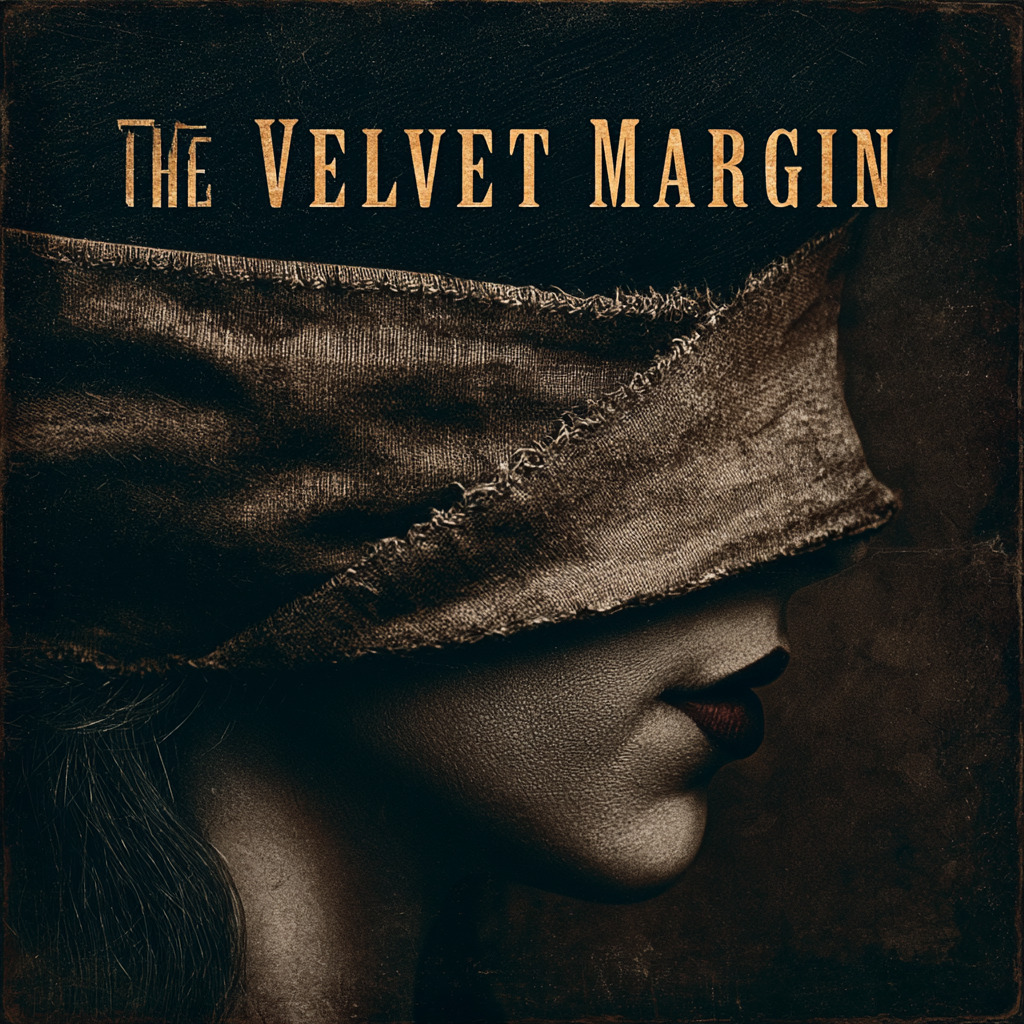
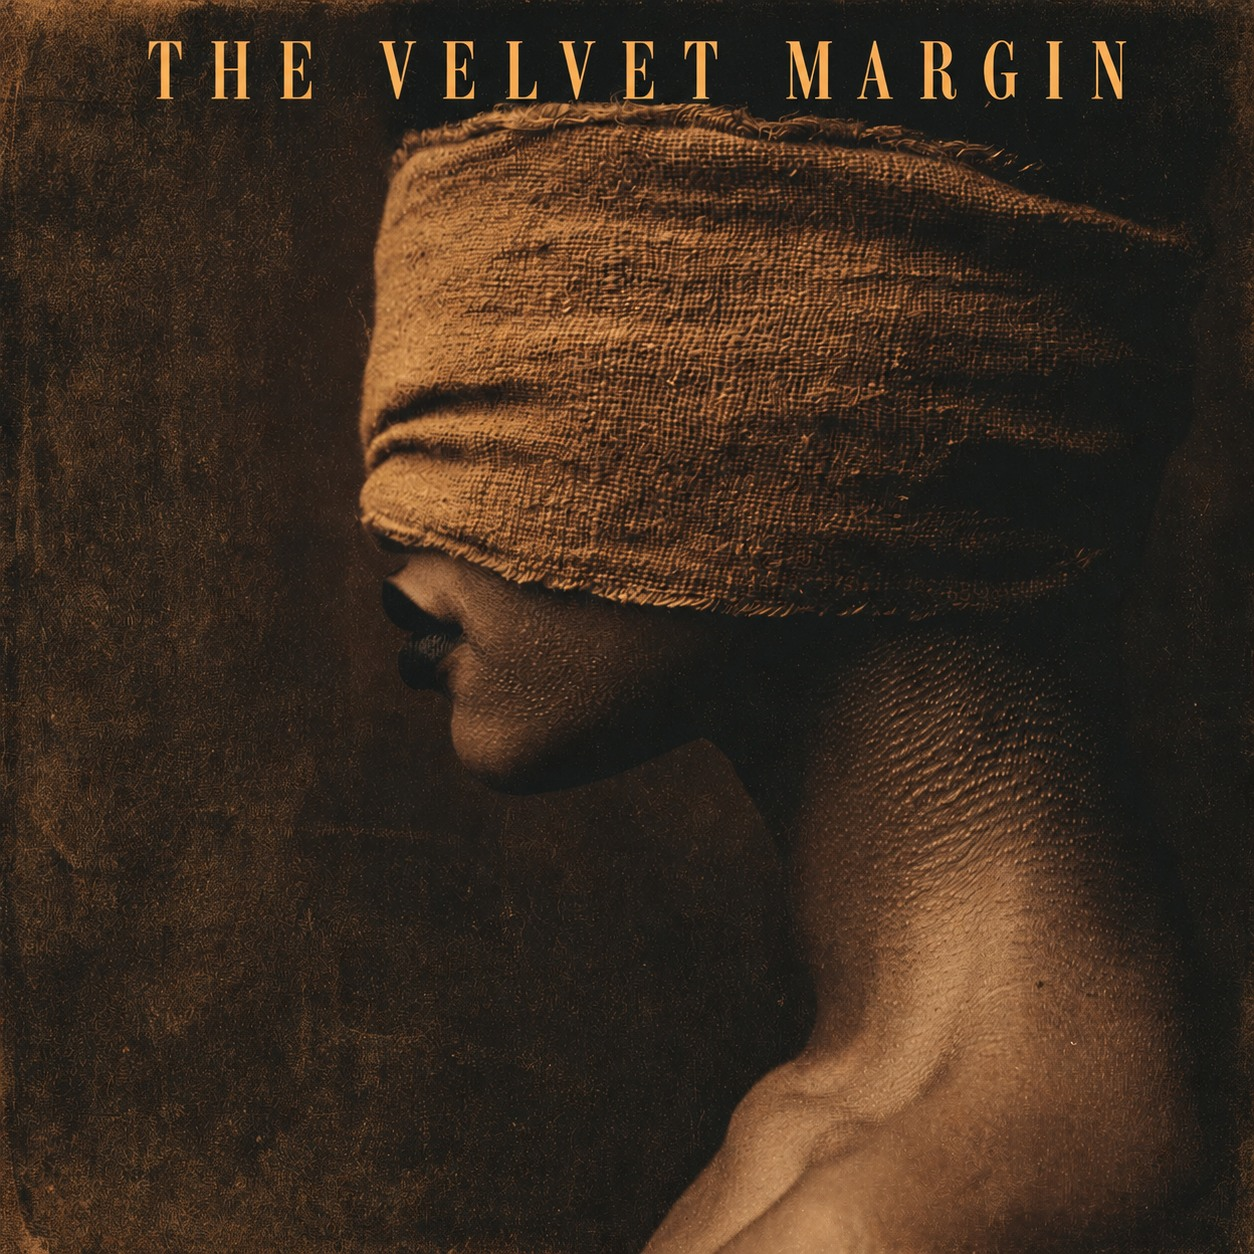
Atualiza capa oficial do álbum

diff --git a/app/page.tsx b/app/page.tsx
@@ -36,7 +36,7 @@ function HomeContent() {
     </section>
 
     <section className="album-feature">
-      <div className="album-cover-wrap"><img src="/the-velvet-margin-album.webp" alt={pt ? "Capa do primeiro álbum The Velvet Margin" : "The Velvet Margin debut album cover"} width="1800" height="1800" loading="lazy" decoding="async" /></div>
+      <div className="album-cover-wrap"><img src="/the-velvet-margin-album.webp" alt={pt ? "Capa do primeiro álbum The Velvet Margin" : "The Velvet Margin debut album cover"} width="1254" height="1254" loading="lazy" decoding="async" /></div>
       <div className="album-feature-copy"><p className="kicker">{pt ? "ÁLBUM E MÚSICAS" : "ALBUM AND MUSIC"}</p><h2>The Velvet Margin</h2><p>{pt ? "Dez faixas transformam memória, trabalho e resistência em uma travessia musical. Conheça o conceito, a lista de faixas e as prévias disponíveis." : "Ten tracks transform memory, labor and resistance into a musical journey. Explore the concept, track list and available previews."}</p><div className="actions"><Link className="button button-gold" href={route("/album")}>{pt ? "Explorar o álbum" : "Explore the album"}</Link><Link className="button button-outline" href={route("/album#previews")}>{pt ? "Ouvir prévias" : "Hear previews"}</Link></div></div>
     </section>
 

diff --git a/app/album/page.tsx b/app/album/page.tsx
@@ -37,7 +37,7 @@ function AlbumContent() {
 
   return <main className="inner-page album-page">
     <section className="album-page-hero">
-      <div className="album-page-cover"><img src="/the-velvet-margin-album.webp" alt={pt ? "Capa de The Velvet Margin" : "The Velvet Margin album cover"} width="1800" height="1800" decoding="async" fetchPriority="high" /></div>
+      <div className="album-page-cover"><img src="/the-velvet-margin-album.webp" alt={pt ? "Capa de The Velvet Margin" : "The Velvet Margin album cover"} width="1254" height="1254" decoding="async" fetchPriority="high" /></div>
       <div className="album-page-copy"><p className="kicker">{pt ? "ÁLBUM E MÚSICAS" : "ALBUM AND MUSIC"}</p><h1>The Velvet<br />Margin</h1><p>{pt ? "Um álbum autoral em dez movimentos sobre trabalho, memória, resistência e a busca do povo negro por liberdade plena." : "An original album in ten movements about labor, memory, resistance and the Black struggle for full freedom."}</p><span>{pt ? "EM PRODUÇÃO • LANÇAMENTO PREVISTO PARA 2027" : "IN PRODUCTION • EXPECTED IN 2027"}</span></div>
     </section>
 

diff --git a/app/patrocinio/page.tsx b/app/patrocinio/page.tsx
@@ -126,7 +126,7 @@ function SponsorshipContent() {
         </div>
       </div>
       <div className="sponsor-art-panel">
-        <img src="/the-velvet-margin-album.webp" alt={pt ? "Capa do álbum The Velvet Margin" : "The Velvet Margin album artwork"} width="1800" height="1800" loading="lazy" decoding="async" />
+        <img src="/the-velvet-margin-album.webp" alt={pt ? "Capa do álbum The Velvet Margin" : "The Velvet Margin album artwork"} width="1254" height="1254" loading="lazy" decoding="async" />
         <div className="sponsor-art-caption"><span>THE VELVET MARGIN</span><span>2026—2027</span></div>
       </div>
     </section>
